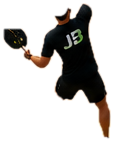
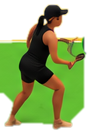
Add files via upload

diff --git a/src/App.jsx b/src/App.jsx
@@ -23,11 +23,11 @@ const starter=()=>[
 export default function App(){
  const stageRef=useRef(), boxRef=useRef();
  const court=useAsset("/assets/premium-court.jpg"),front=useAsset("/assets/player_front.png"),back=useAsset("/assets/player_back.png"),coachImg=useAsset("/assets/coach.png");
- const[items,setItems]=useState(()=>{try{return JSON.parse(localStorage.getItem("jb111-items"))||starter()}catch{return starter()}});
+ const[items,setItems]=useState(()=>{try{return JSON.parse(localStorage.getItem("jb112-items"))||starter()}catch{return starter()}});
  const[selected,setSelected]=useState(null),[teamTab,setTeamTab]=useState("A"),[mode,setMode]=useState("select"),[draft,setDraft]=useState(null);
  const[history,setHistory]=useState([]),[future,setFuture]=useState([]),[scale,setScale]=useState(1);
  const[title,setTitle]=useState("Saque + subida"),[category,setCategory]=useState("Ofensiva"),[level,setLevel]=useState("Intermediário"),[desc,setDesc]=useState("Saque profundo no meio + subida para a rede.");
- const[scenes,setScenes]=useState(()=>{try{return JSON.parse(localStorage.getItem("jb111-scenes"))||[]}catch{return[]}});
+ const[scenes,setScenes]=useState(()=>{try{return JSON.parse(localStorage.getItem("jb112-scenes"))||[]}catch{return[]}});
  const[scene,setScene]=useState(0),[showPath,setShowPath]=useState(true),[showZones,setShowZones]=useState(true),[showNums,setShowNums]=useState(true),[showBrand,setShowBrand]=useState(true);
  const[playing,setPlaying]=useState(false),[progress,setProgress]=useState(0),[courtMode,setCourtMode]=useState("full");
  const[arrowColor,setArrowColor]=useState("#f4f72b");
@@ -44,7 +44,7 @@ export default function App(){
  const addSimple=t=>commit([...items,{id:uid(),type:t,x:450,y:350,name:t==="ball"?"Bola":t==="cone"?"Cone":"Texto",text:t==="text"?"Observação":"",visible:true}]);
  const del=()=>{if(sel){commit(items.filter(x=>x.id!==sel.id));setSelected(null)}};
  const duplicate=()=>{if(!sel)return;const c={...clone(sel),id:uid(),x:(sel.x||0)+22,y:(sel.y||0)+22};commit([...items,c])};
- const save=()=>{localStorage.setItem("jb111-items",JSON.stringify(items));localStorage.setItem("jb111-scenes",JSON.stringify(scenes));localStorage.setItem("jb111-meta",JSON.stringify({title,category,level,desc}))};
+ const save=()=>{localStorage.setItem("jb112-items",JSON.stringify(items));localStorage.setItem("jb112-scenes",JSON.stringify(scenes));localStorage.setItem("jb112-meta",JSON.stringify({title,category,level,desc}))};
  const exportPNG=()=>{const a=document.createElement("a");a.href=stageRef.current.toDataURL({pixelRatio:2});a.download=title.replace(/\W+/g,"_")+".png";a.click()};
  const point=()=>{const p=stageRef.current?.getPointerPosition();return p?{x:p.x/scale,y:p.y/scale}:null};
  const down=()=>{if(!["arrow","zone"].includes(mode))return;const p=point();if(!p)return;if(mode==="arrow")setDraft({type:"arrow",points:[p.x,p.y,p.x,p.y],color:arrowColor});else setDraft({type:"zone",x:p.x,y:p.y,w:0,h:0})};
